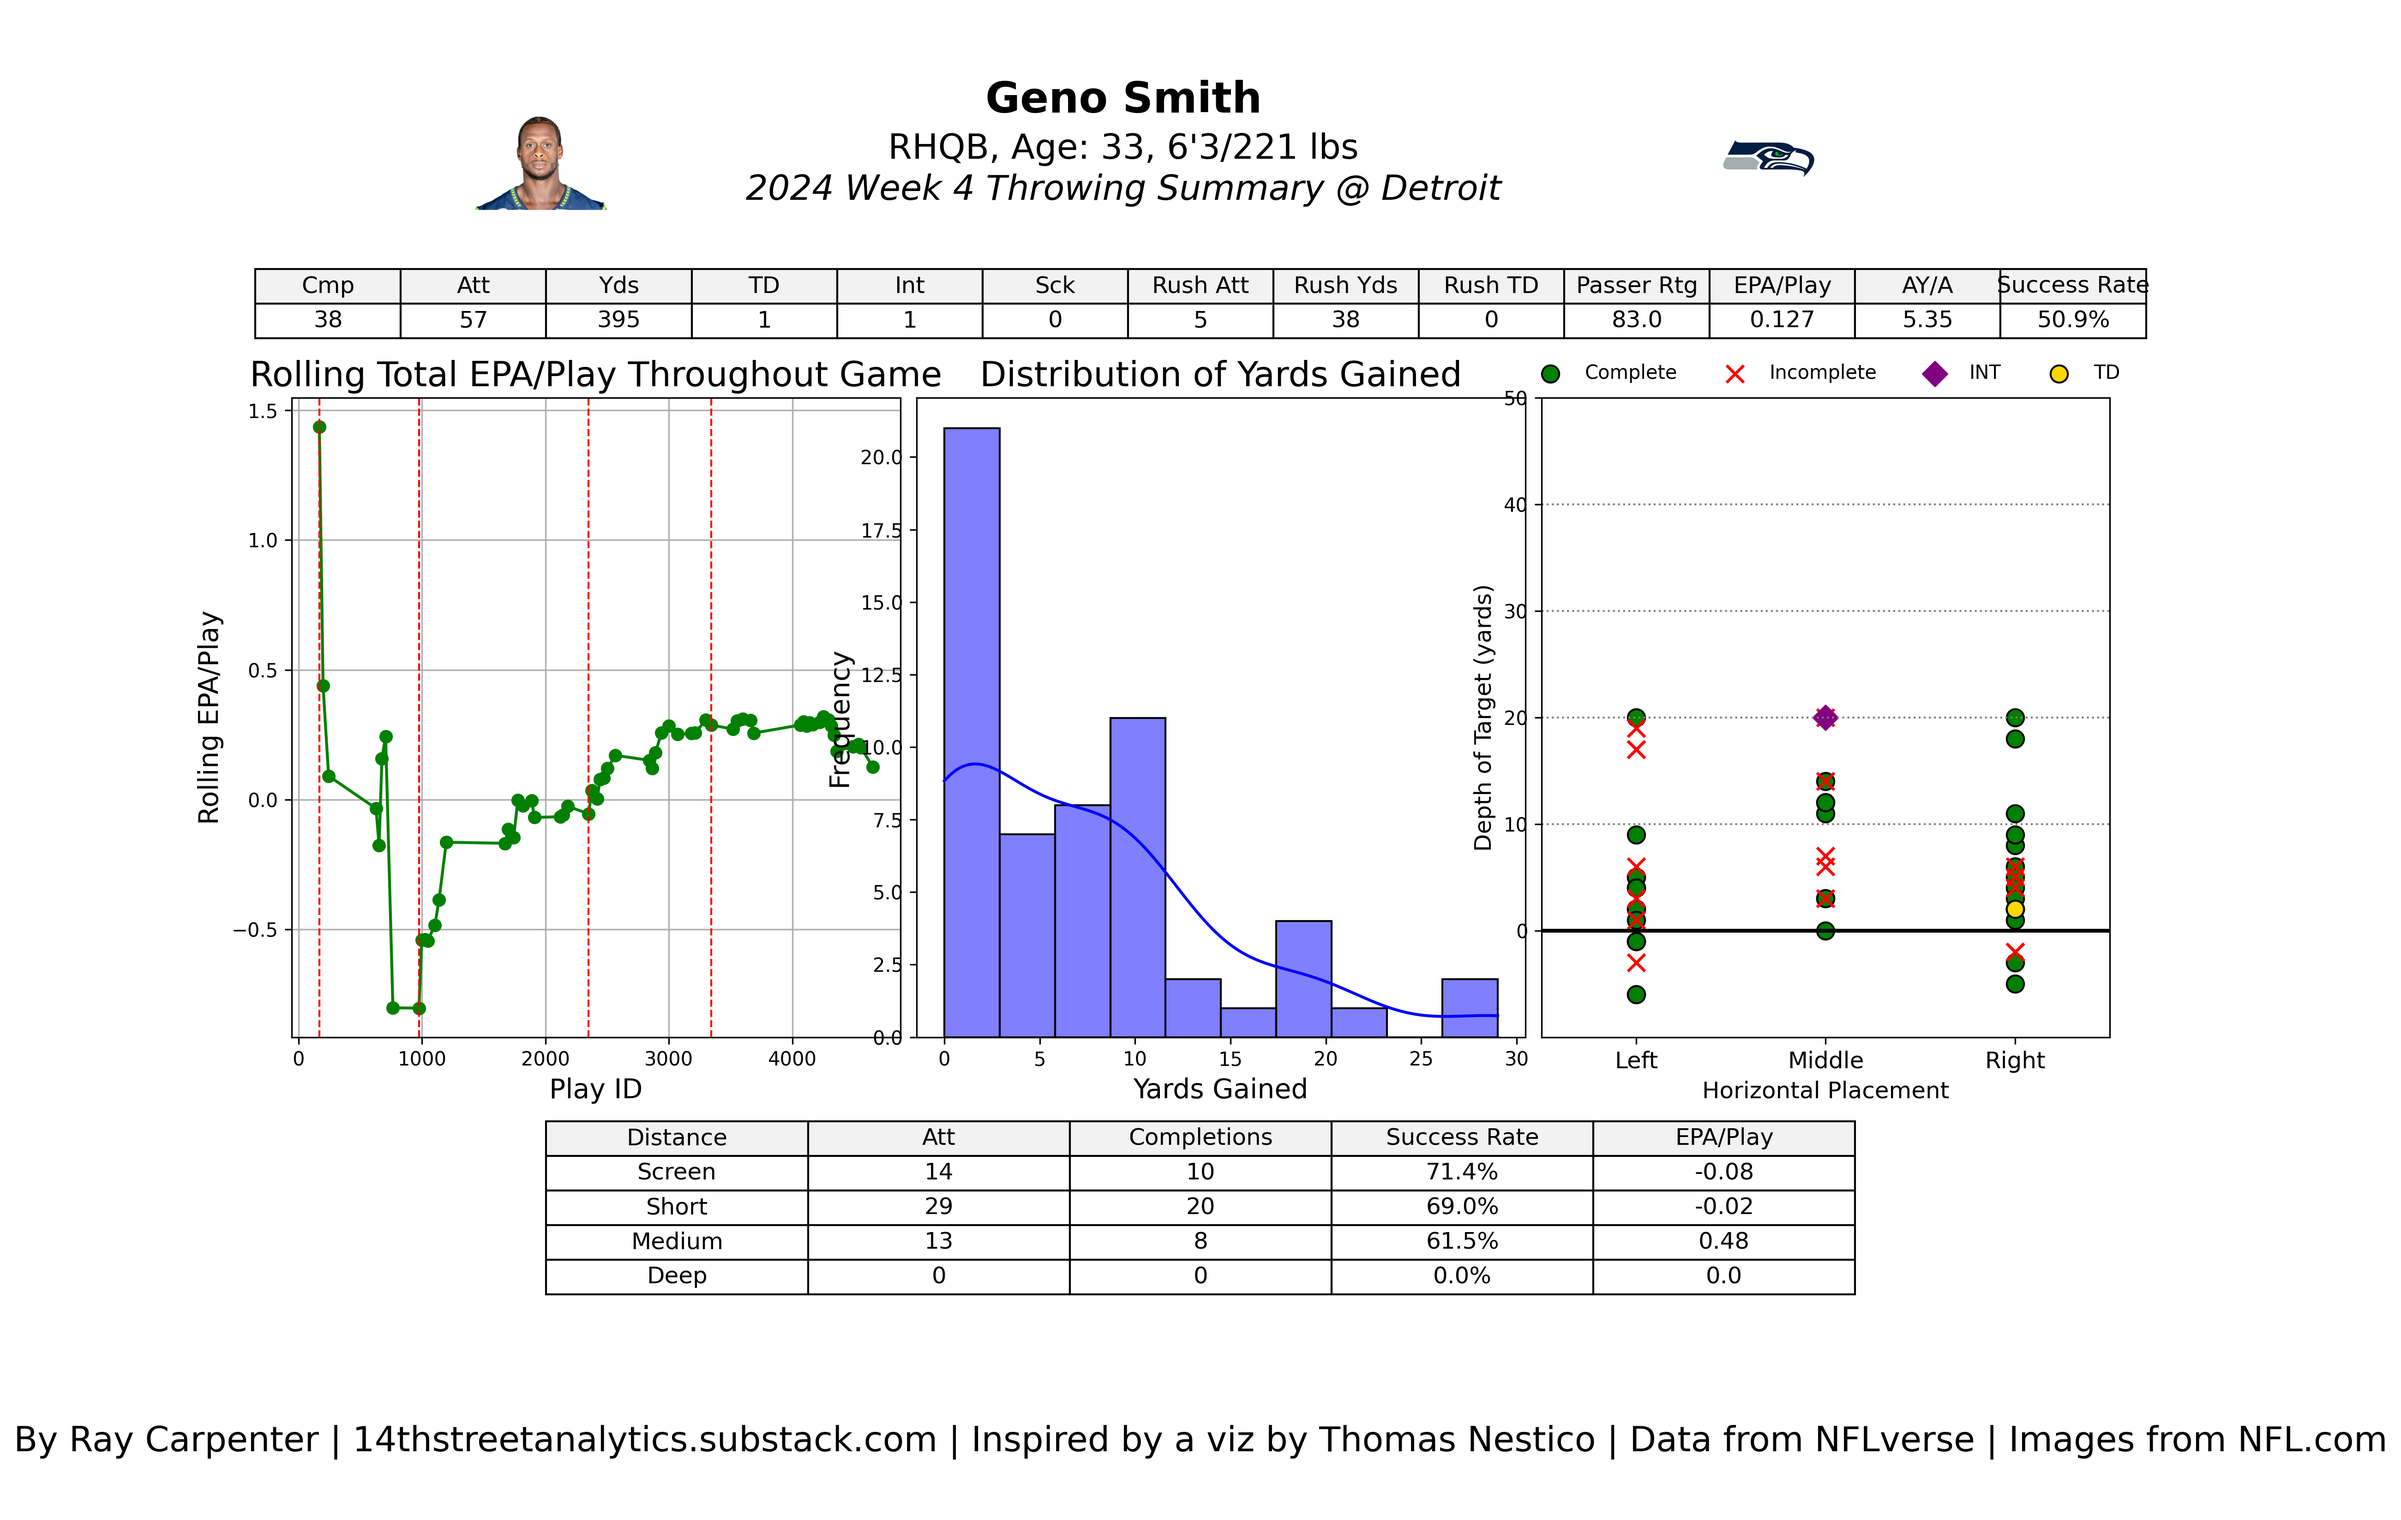
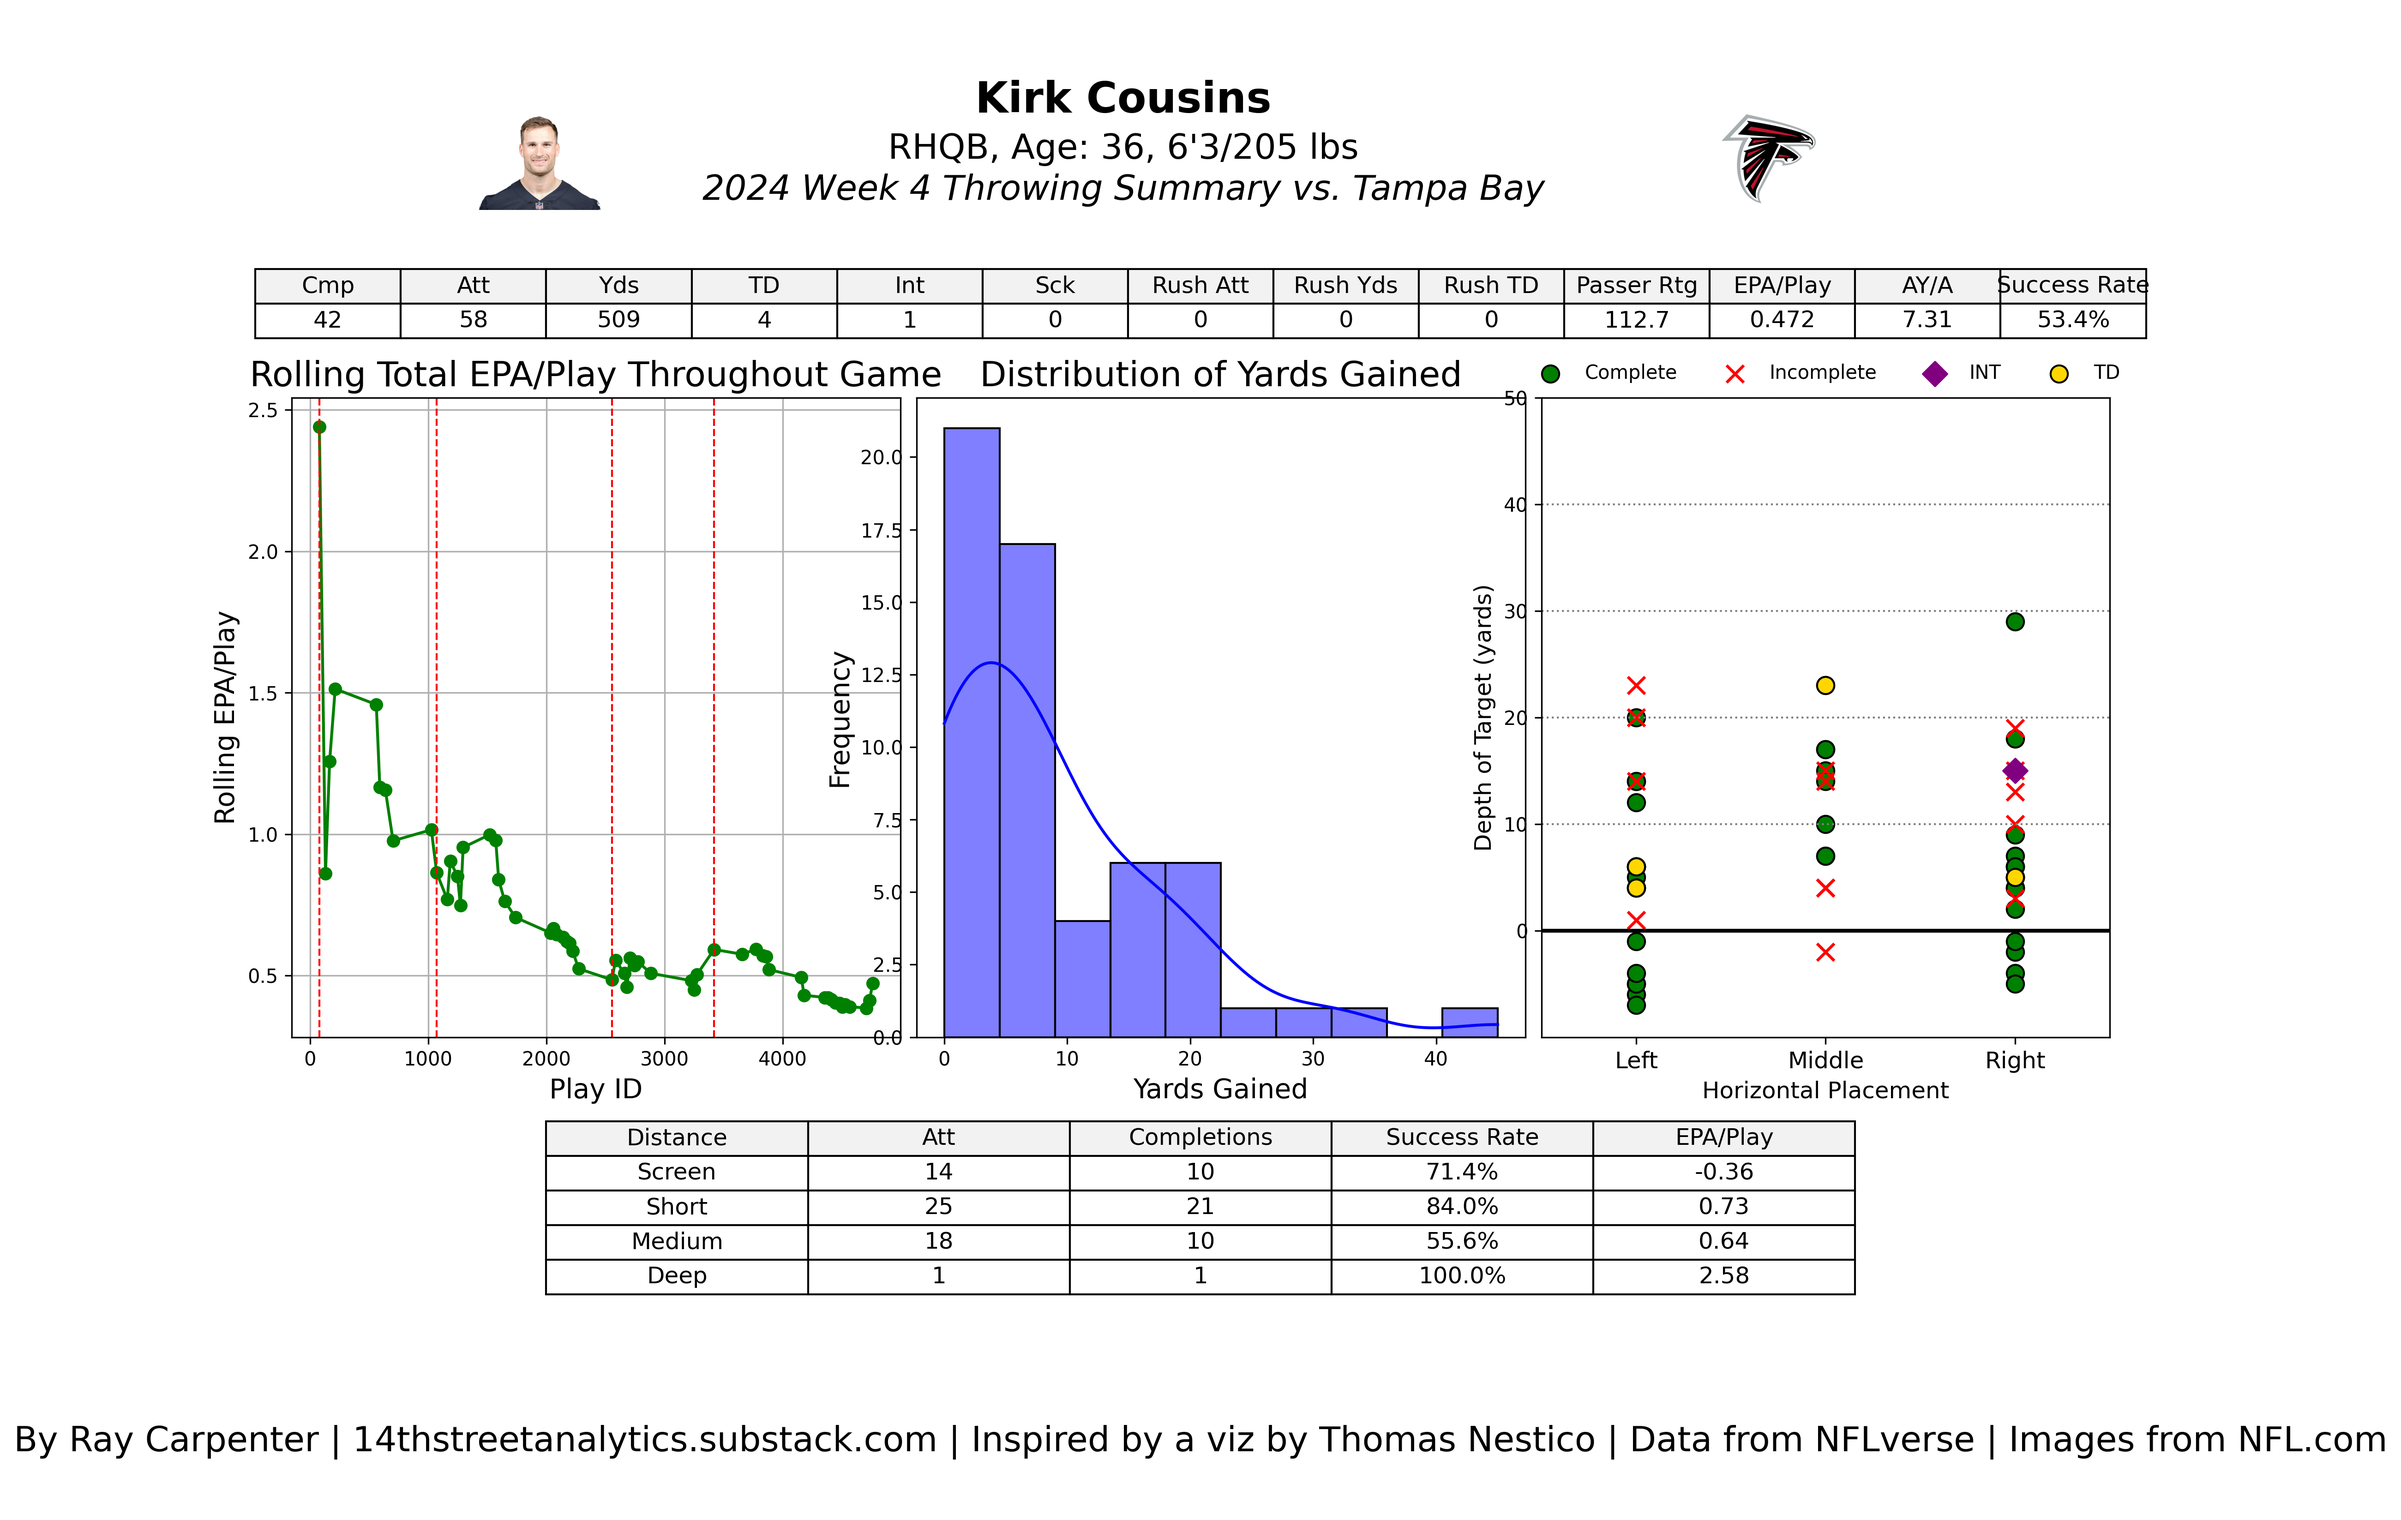
Started Week 5

diff --git a/throwing_summary.py b/throwing_summary.py
@@ -54,7 +54,7 @@ player_info = qb_info[qb_info['Name'] == player_name].iloc[0]
 formatted_player_name = player_info['data_formatted_player_name']
 
 # Assuming the game date is stored in a specific format (e.g., 'YYYY-MM-DD')
-game_date_str = '2024-09-30'  # Adjust as necessary for the game being summarized
+game_date_str = '2024-10-03'  # Adjust as necessary for the game being summarized
 game_date = datetime.strptime(game_date_str, '%Y-%m-%d')
 
 # Calculate the player's age based on their birthday and the game date
@@ -131,14 +131,14 @@ rushing_plays = filtered_df[filtered_df['rusher_player_name'] == formatted_playe
 # Filter game data by game id
 # Ensure the game ID is correctly filtered, exclude sacks, and the formatted name matches exactly
 game_data_passing = passing_plays[
-    (passing_plays['game_id'] == '2024_04_SEA_DET') & 
+    (passing_plays['game_id'] == '2024_05_TB_ATL') & 
     (passing_plays['pass_attempt'] == 1) & 
     (passing_plays['sack'] != 1.0) &  # Exclude plays where a sack occurred
     (passing_plays['passer_player_name'] == formatted_player_name)
 ]
 print(f"Passing attempts (excluding sacks): {game_data_passing['pass_attempt'].sum()} (expected: 18)")
 ### follow format YEAR_WEEK_AWAY_HOME 2023_12_BUF_PHI
-game_data_rushing = rushing_plays[rushing_plays['game_id'] == '2024_04_SEA_DET']
+game_data_rushing = rushing_plays[rushing_plays['game_id'] == '2024_05_TB_ATL']
 
 # Calculate cumulative completions and attempts for passing plays
 game_data_passing['cumulative_completions'] = game_data_passing['complete_pass'].cumsum()
@@ -328,7 +328,7 @@ def qb_dashboard(game_data_passing: pd.DataFrame, headshot: Image, team_abb: str
     # Adjust biographical information display
     ax_bio.text(0.5, 0.95, player_name, fontsize=22, ha='center', fontweight='bold')  # Dynamically display QB name
     ax_bio.text(0.5, 0.50, f'{player_info["dexterity"]}HQB, Age: {player_age}, {player_height}/{player_weight} lbs', fontsize=18, ha='center')  # Dynamically display height and weight
-    ax_bio.text(0.5, 0.1, f'2024 Week 4 Throwing Summary @ Detroit', fontsize=18, ha='center', fontstyle='italic')  # Still manually set game information
+    ax_bio.text(0.5, 0.1, f'2024 Week 4 Throwing Summary vs. Tampa Bay', fontsize=18, ha='center', fontstyle='italic')  # Still manually set game information
     ax_bio.axis('off')
 
   
@@ -415,4 +415,4 @@ def qb_dashboard(game_data_passing: pd.DataFrame, headshot: Image, team_abb: str
 
 save_path = 'qb_dashboard.png'
 
-qb_dashboard(game_data_passing, headshot, "SEA", summary_df, pass_distance_summary, quarter_positions, save_path=save_path)
+qb_dashboard(game_data_passing, headshot, "ATL", summary_df, pass_distance_summary, quarter_positions, save_path=save_path)
